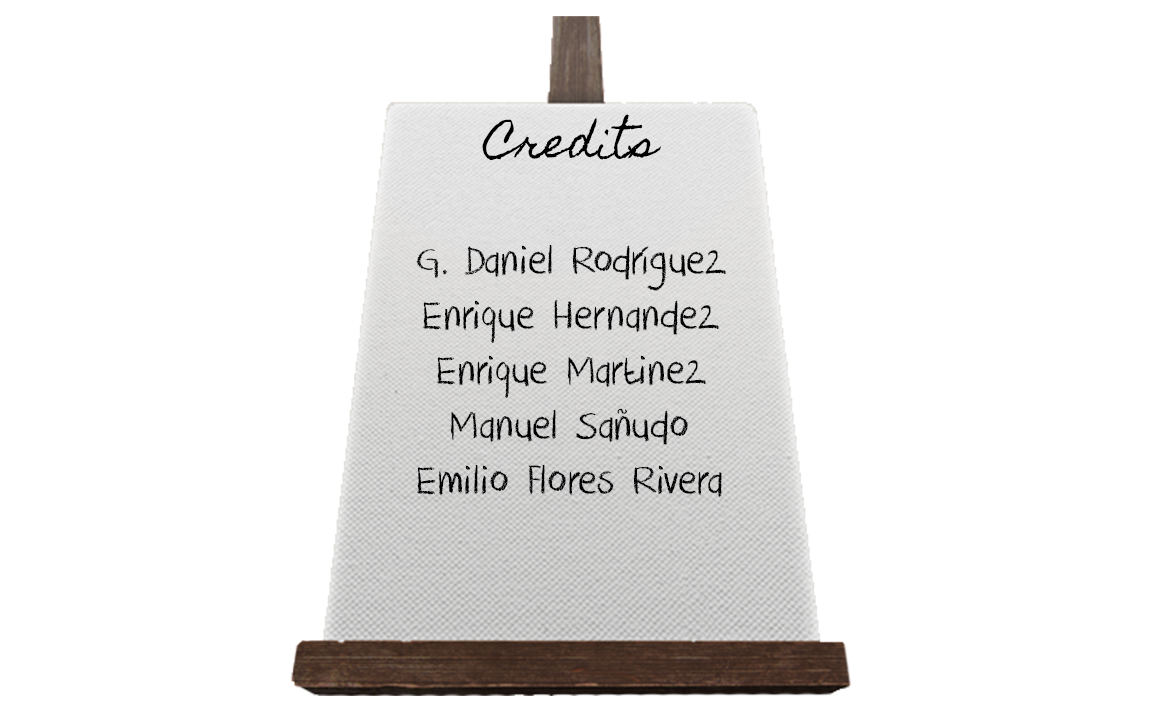
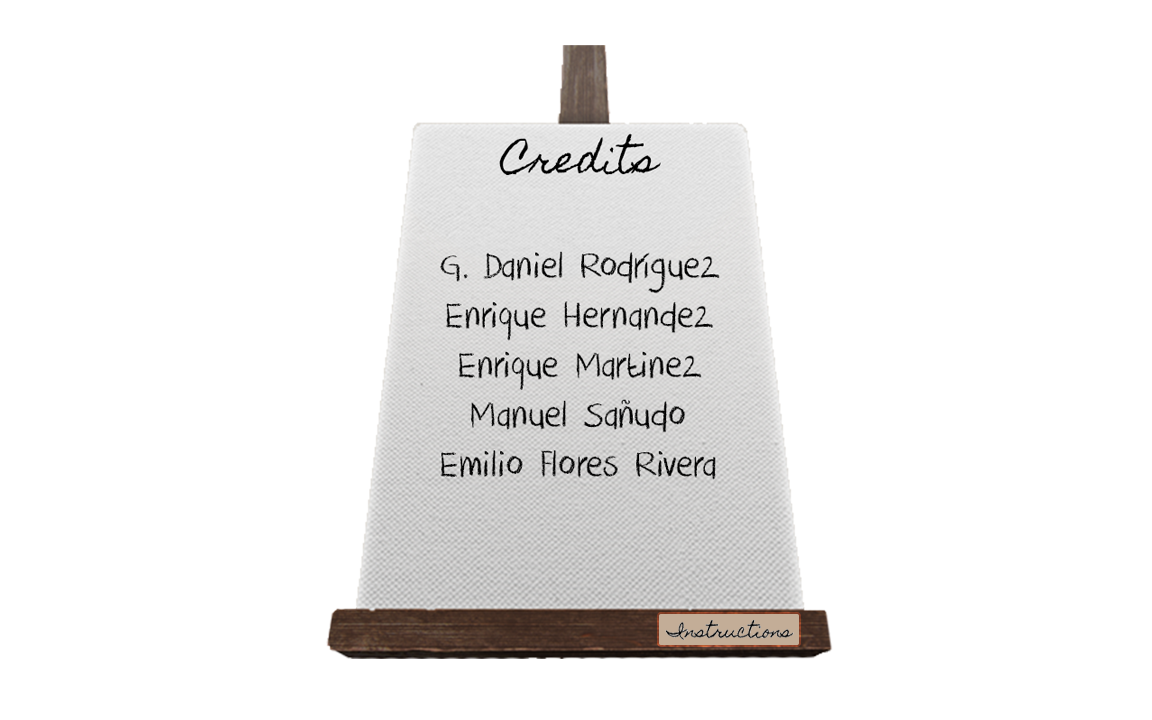
Agregue imagen de créditos y arregle el fondo del escore que no estaba centrado

Changed region(s): [[0.25, 0.0, 0.75, 0.9778], [0.4375, 0.7028, 0.4688, 0.7333]]

diff --git a/DreamWalker/src/dreamwalker/Instructions.java b/DreamWalker/src/dreamwalker/Instructions.java
@@ -27,16 +27,18 @@ public class Instructions implements MouseListener {
     private final Botones goBack;
     private final Image back;
     private final Image instrucciones;
+    private final Image creditos;
+	private boolean credits;
     
     /**
      * Metodo constructor
      * @param background
      */
     public Instructions(Image background) {
+		credits = false;
         this.back = background;
-        instrucciones = Toolkit.getDefaultToolkit().getImage(this.getClass().getResource("Images/Background/Instrucciones.png"));
-			
-        
+		instrucciones = Toolkit.getDefaultToolkit().getImage(this.getClass().getResource("Images/Background/Credits.png"));
+		creditos = Toolkit.getDefaultToolkit().getImage(this.getClass().getResource("Images/Background/Instrucciones.png"));
         goBack = new Botones (Base.getW()/10, 4*Base.getH()/5, "Images/Botones/goBack.png");
      }
     
@@ -46,9 +48,12 @@ public class Instructions implements MouseListener {
      * @param juego JFrame
      */
     public void render(Graphics g, JFrameDreamWalker juego) {
-        
         g.drawImage(back, 0, 0, juego);
-        g.drawImage(instrucciones,0, Base.getH()/10, juego);
+		if (credits) {
+			g.drawImage(instrucciones,0, Base.getH()/10, juego);
+		} else {
+			g.drawImage(creditos,0, Base.getH()/10, juego);
+		}
         g.drawImage(goBack.getImagenI(), goBack.getPosX()-100, goBack.getPosY(), juego);
     }
 
@@ -61,8 +66,9 @@ public class Instructions implements MouseListener {
         if (JFrameDreamWalker.status == JFrameDreamWalker.STATUS.INSTRUCTIONS) {
             if (goBack.contiene (e.getX(), e.getY())) {
                 JFrameDreamWalker.status = JFrameDreamWalker.STATUS.MENU;
-
-            }
+            } else if ((686 < e.getY() && e.getY() < 716) && (655 < e.getX() && e.getX() < 805)) {
+				credits = !credits;
+			}
         }
     }
 

diff --git a/DreamWalker/src/dreamwalker/JFrameDreamWalker.java b/DreamWalker/src/dreamwalker/JFrameDreamWalker.java
@@ -822,8 +822,8 @@ public class JFrameDreamWalker extends JFrame implements KeyListener, MouseListe
         if (status == STATUS.GAME ) {
        
 			g.setFont(new Font("Sylfaen", Font.BOLD, 40));
-			g.drawImage(scoreB, 60, 65, this);
-                        g.drawString("" + score, 100, 100);
+			g.drawImage(scoreB, 63, 61, this);
+			g.drawString("" + score, 100, 100);
        
 			sky.render(g, this);
 			
